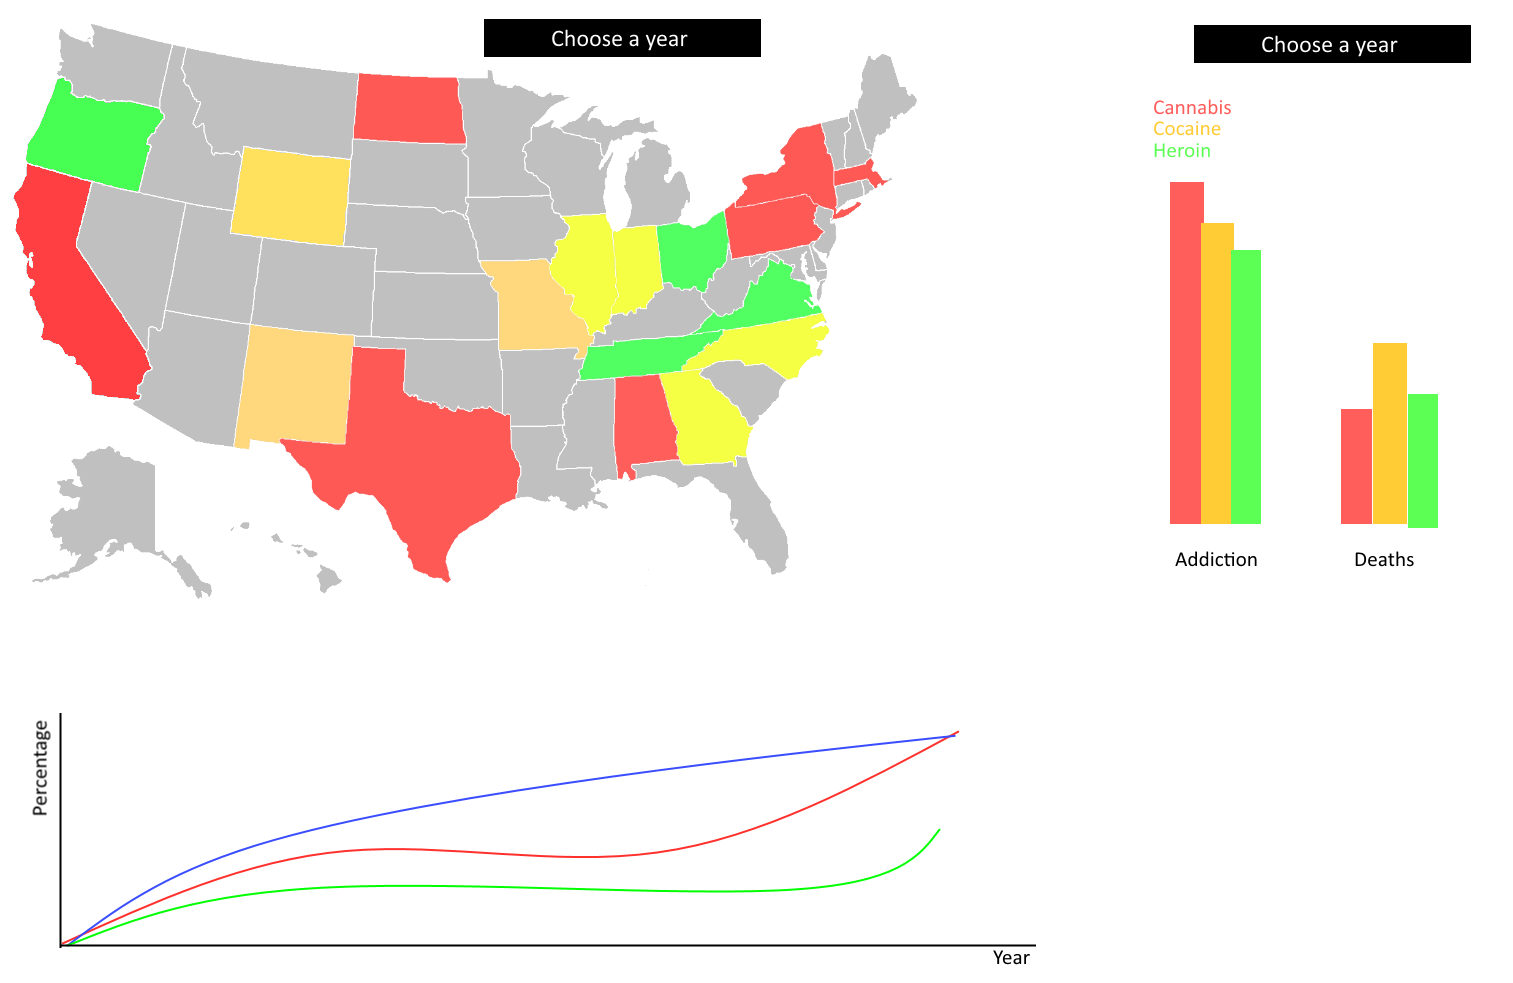
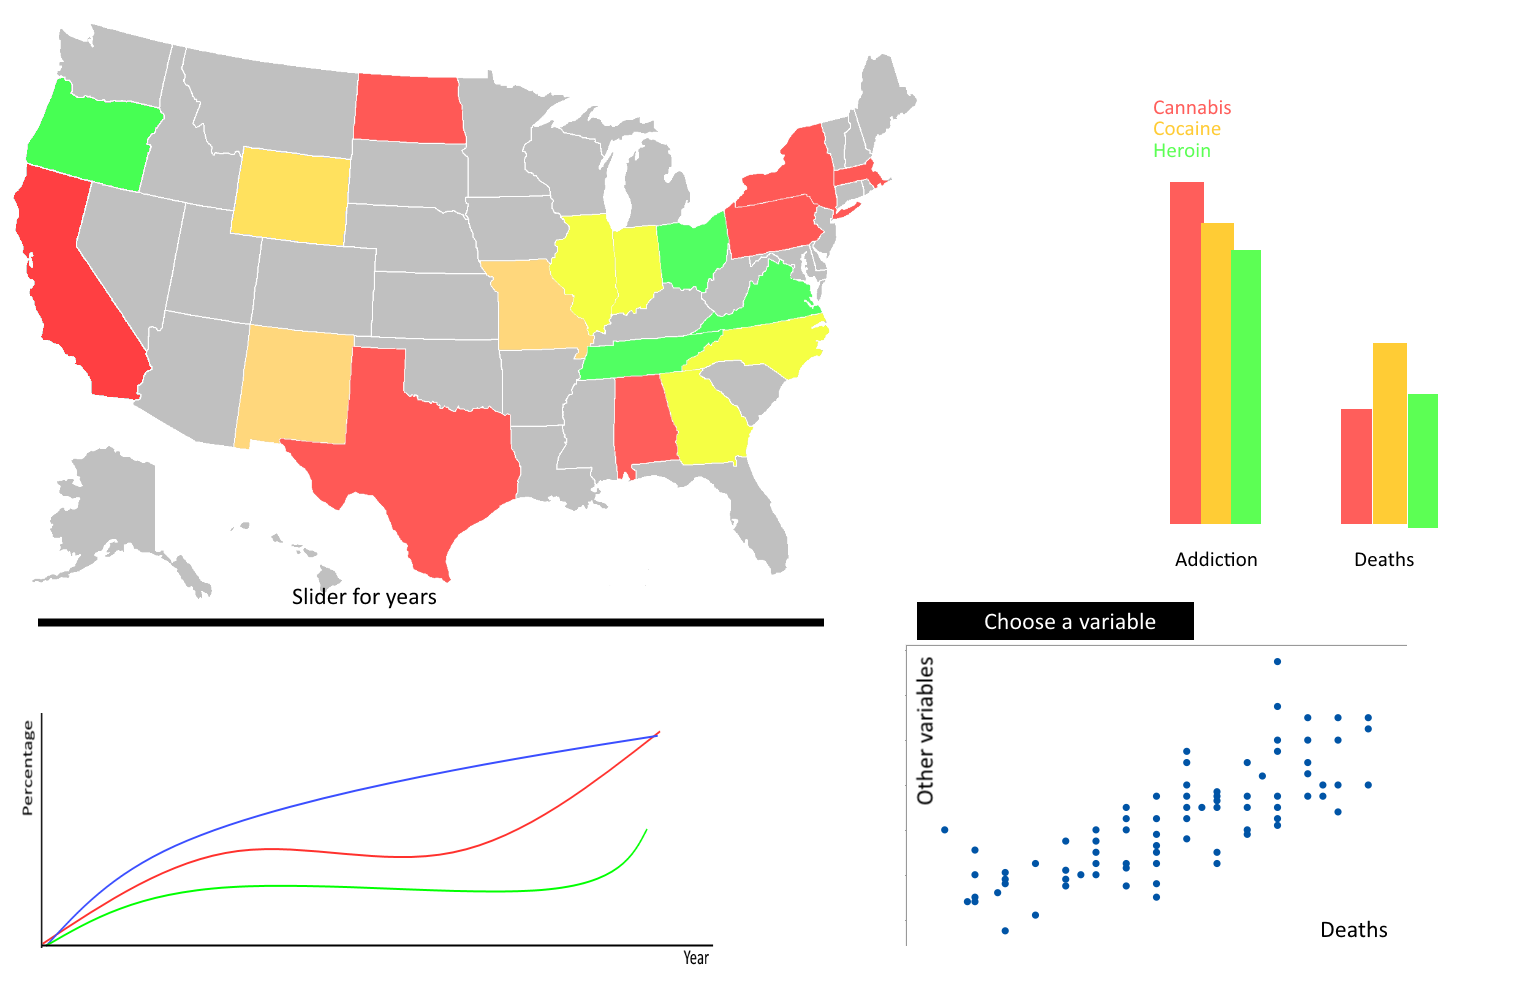
updated readme, added design

diff --git a/README.md b/README.md
@@ -1,12 +1,12 @@
 # Failure of the 'War on Drugs'
 By Bas Kuiken
 
-# Programmeer-Project summary
-This repository holds a dataprocessing project for a course of the minor Programming. I intend to
+# Programming-Project summary
+This repository holds a data-processing project for a course of the minor Programming. I intend to
 create a visualization which shines some light on the failure of the 'War on Drugs'.
 
 # Problem Statement
-There is a widespread lack of knownledge on the 'War on Drugs'. The idea was to reduce drug-related
+There is a widespread lack of knowledge on the 'War on Drugs'. The idea was to reduce drug-related
 deaths and addictions and reduce criminal activity, by prioritizing drug offenses. Numbers show that
 drug use has not dropped, neither have drug addiction and drug-related deaths. The visualization I
 intend to build shows those numbers in an easy to grasp format.
@@ -17,22 +17,26 @@ deaths.
 Sketch:
 ![alt text](doc/BlankMap-USA-states.PNG)
 Features:
--Users can see drug use by state on a map, and choose which year it shows from a dropdown (MVP)
--Users can see drug-related deaths and addiction in a grouped barchart and can choose which year it
-shows (MVP)
--Users can see a linechart with drug-related arrests per year, with the lines showing different kinds
-of drug related arrests (MVP)
+-Users can see drug use by state on a map. A slider adjusts the year (also for grouped barchart, not
+    MVP) and a vertical line in the line chart to show which year you're in. (MVP)
+-Users can see drug-related deaths and addiction in a grouped bar chart and can choose which year it
+    shows (not MVP)
+-Users can see a line chart with drug-related arrests per year and DEA spending, with the lines
+    showing different kinds of drug related arrests, second y axis showing amount of money (MVP).
+-Scatterplot showing drug related deaths in the world on x-axis and on the y-axis a couple of
+    interesting variables, chosen in a drop down (MVP).
 
 # Prerequisites
 -Drug abuse(http://datafiles.samhsa.gov/study-series/national-survey-drug-use-and-health-nsduh-nid13517)
 -Drug use(http://datafiles.samhsa.gov/info/browse-studies-nid3454)
 -Drug related arrests(http://www.drugwarfacts.org/table/total_arrests)
--Drug overdoses(https://www.drugabuse.gov/related-topics/trends-statistics/overdose-death-rates)
+-Drug deaths(https://www.drugabuse.gov/related-topics/trends-statistics/overdose-death-rates,
+    https://data.unodc.org/)
 
 I need d3.js and Datamaps(datamaps.github.io)
 
 There are graphs on the internet that show these numbers seperately, but there is no visualization
-that combines these three visualizations.
+that combines these three/four visualizations.
 
 I think transforming the data so it will be useful is going to be tricky. Coloring the map is
 something new which I think might give me some headaches. With patience I think the transforming

diff --git a/DESIGN.md b/DESIGN.md
@@ -1,0 +1,26 @@
+# Data Sources
+-Drug abuse(http://datafiles.samhsa.gov/study-series/national-survey-drug-use-and-health-nsduh-nid13517)
+-Drug use(http://pdas.samhsa.gov/saes/state)
+    I'm going to take data from every year since 2002. I will need to put that data in one file and
+    into a JSON.
+-Drug related arrests(http://www.drugwarfacts.org/table/total_arrests)
+    I will need to put this data into a JSON file.
+-Drug overdoses(https://www.drugabuse.gov/related-topics/trends-statistics/overdose-death-rates,
+    https://data.unodc.org/)
+    I will need to take the relevant data into a JSON.
+
+# Components and needs
+For the map visualization I need the Datamaps plugin for d3.js. I will have to enter the data and
+change the color with a range of percentages. This will be updateable with the slider.
+
+For the barchart I will need to create a function that updates the barchart when the slider is moved.
+I will also have to assign colors for different drugs.
+
+The line chart needs a function that puts a vertical line on it, relating to which year is shown on
+other visualizations. I will also have to create a second y axis for the amount of money spent on DEA.
+
+The scatterplot needs a dropdown that changes the variable on the y axis.
+
+# D3 plugins
+
+I will need Datamaps to render a map. The rest is done with d3.js
